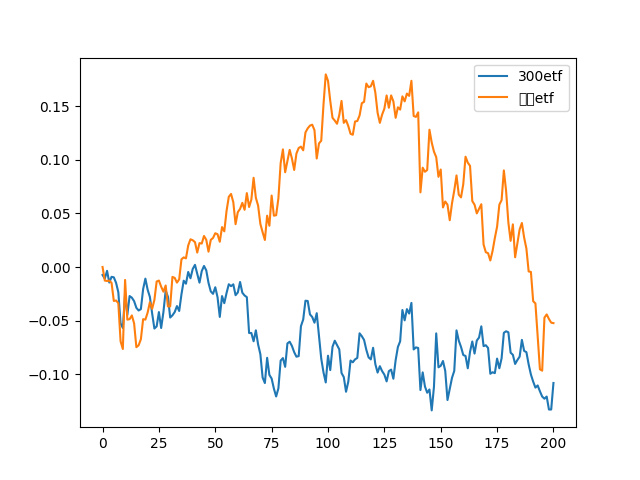
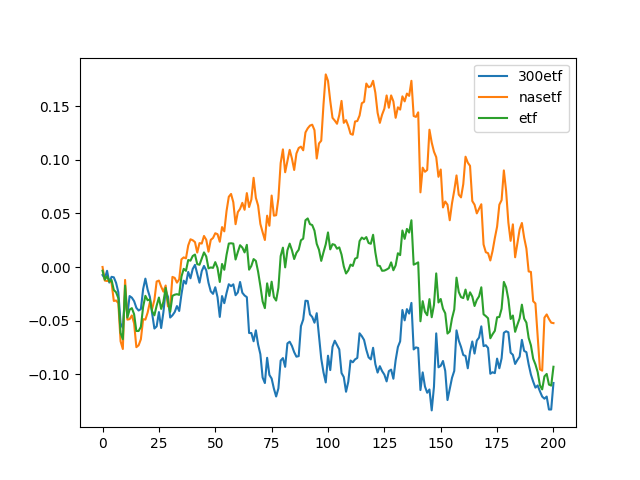
完成数据收集，清理，处理，准备开始分析

diff --git a/etfdata.py b/etfdata.py
@@ -89,6 +89,7 @@ def Calculator(inverstData, histData):
     money = []   #投资总额
     rate = []     #收益率
     time = []   #时间
+    market = []  #股票市值
     
     for date in histData.date:
         d1 = TransfDate2(date)
@@ -101,33 +102,62 @@ def Calculator(inverstData, histData):
                 vol.append(inverstData.成交量[i])
                 fee.append(inverstData.手续费[i])
                 money.append(inverstData.发生金额[i])
+                market.append(vol[i]*histData.close[i])
                 #计算收益率=市值/投资总额
-                rate.append( (vol[i]*histData.close[i])/money[i] - 1.0)
+                rate.append(market[i]/money[i] - 1.0)
             else: #不是第一天，但有交易
                  vol.append(vol[j-1] + inverstData.成交量[i])
                  fee.append(fee[j-1] + inverstData.手续费[i])
                  money.append(money[j-1] + inverstData.发生金额[i])
+                 market.append(vol[j]*histData.close[j])
                  #计算收益率=市值/投资总额
-                 rate.append((vol[j]*histData.close[j])/money[j] -1.0)
+                 rate.append(market[j]/money[j] -1.0)
             i = i+1
         else: #没有交易，复制上一天的数据
             vol.append(vol[j-1])
             fee.append(fee[j-1])
             money.append(money[j-1])
-            rate.append((vol[j]*histData.close[j])/money[j] - 1.0)
+            market.append(vol[j]*histData.close[j])
+            rate.append(market[j]/money[j] - 1.0)
         j = j+1
     data = pd.DataFrame({
     "日期":time,
     "持仓量":vol,
     "手续费":fee,
     "成本":money,
+    "市值":market,
     "收益率":rate})
     return data
         
         
 #合并两个数据，算出总的持仓收益率等数据
-def MergeData(data1, data2):
-    pass
+def MergeData(data1, data2, histData1, histData2):
+    #合并日期，持仓金额，手续费,市值，并计算持仓收益率
+    money = []   #成本
+    fee = []          #手续费总额
+    market = []   #总的股票市值
+    rate = []         #总的收益率
+    time = []        #日期
+    i = 0
+    for date in histData1.date:
+        date = TransfDate2(date)
+        time.append(date)
+        money.append(data1.成本[i] + data2.成本[i])
+        fee.append(data1.手续费[i] + data2.手续费[i])
+        market.append(data1.市值[i] + data2.市值[i])
+        #计算收益率
+        rate.append(market[i]/money[i] - 1.0)
+        i = i + 1
+    data = pd.DataFrame({
+    "日期":time,
+    "成本":money,
+    "手续费":fee,
+    "市值":market,
+    "收益率":rate
+    })
+    return data
+        
+    
     
 #主程序
 if __name__ == "__main__":
@@ -169,10 +199,11 @@ if __name__ == "__main__":
     data_300 = Calculator(df_300, df_300_hist)
     data_nas = Calculator(df_nas, df_nas_hist)
     #将收益率数据合并，算出总的持仓数据
-    MergeData(data_300, data_nas)
+    data_total = MergeData(data_300, data_nas, df_300_hist, df_nas_hist)
     plt.figure()
     plt.plot(data_300.收益率, label = "300etf")
-    plt.plot(data_nas.收益率, label = "纳指etf")
+    plt.plot(data_nas.收益率, label = "nasetf")
+    plt.plot(data_total.收益率, label = "etf")
     plt.legend(loc = "upper right")
     plt.savefig("收益率.png")
     

diff --git a/test.py b/test.py
@@ -1,6 +1,7 @@
 # -*- coding:utf-8 -*-
 # 用Python分析etf数据
 #作者:赵瑜敏 zwdnet@163.com
+# 用来测试一些我不熟悉的python语法的地方
 
 import pandas as pd
 from pandas import Series, DataFrame
